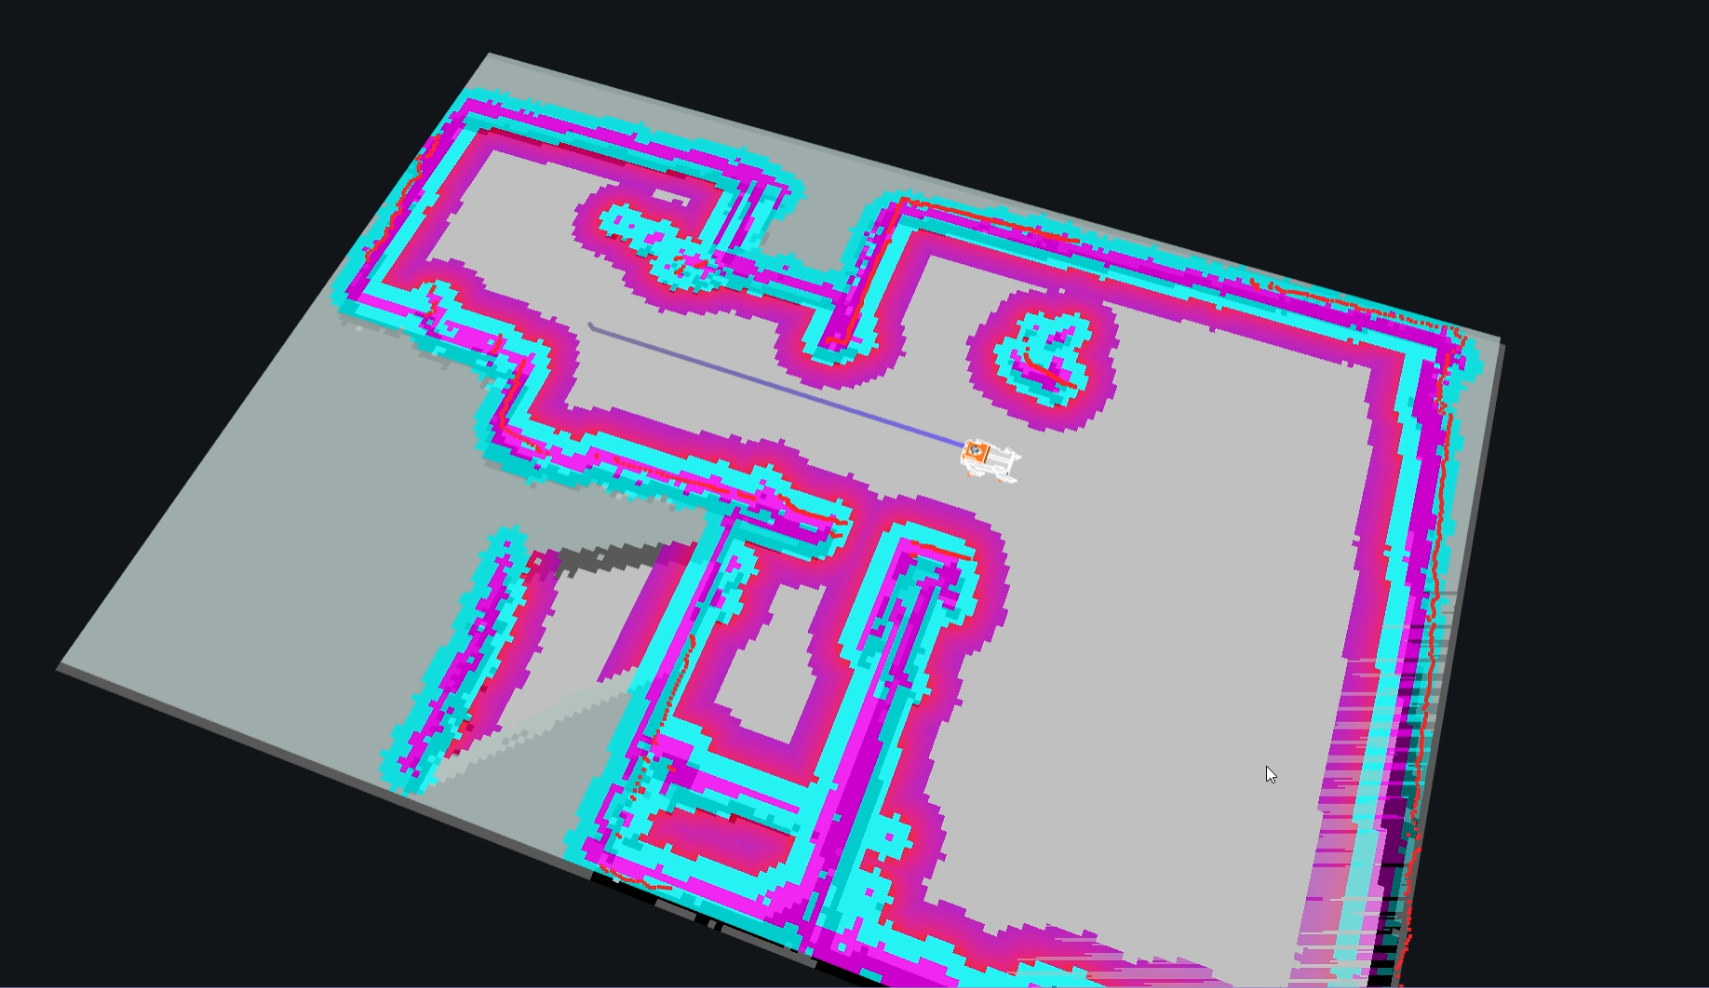
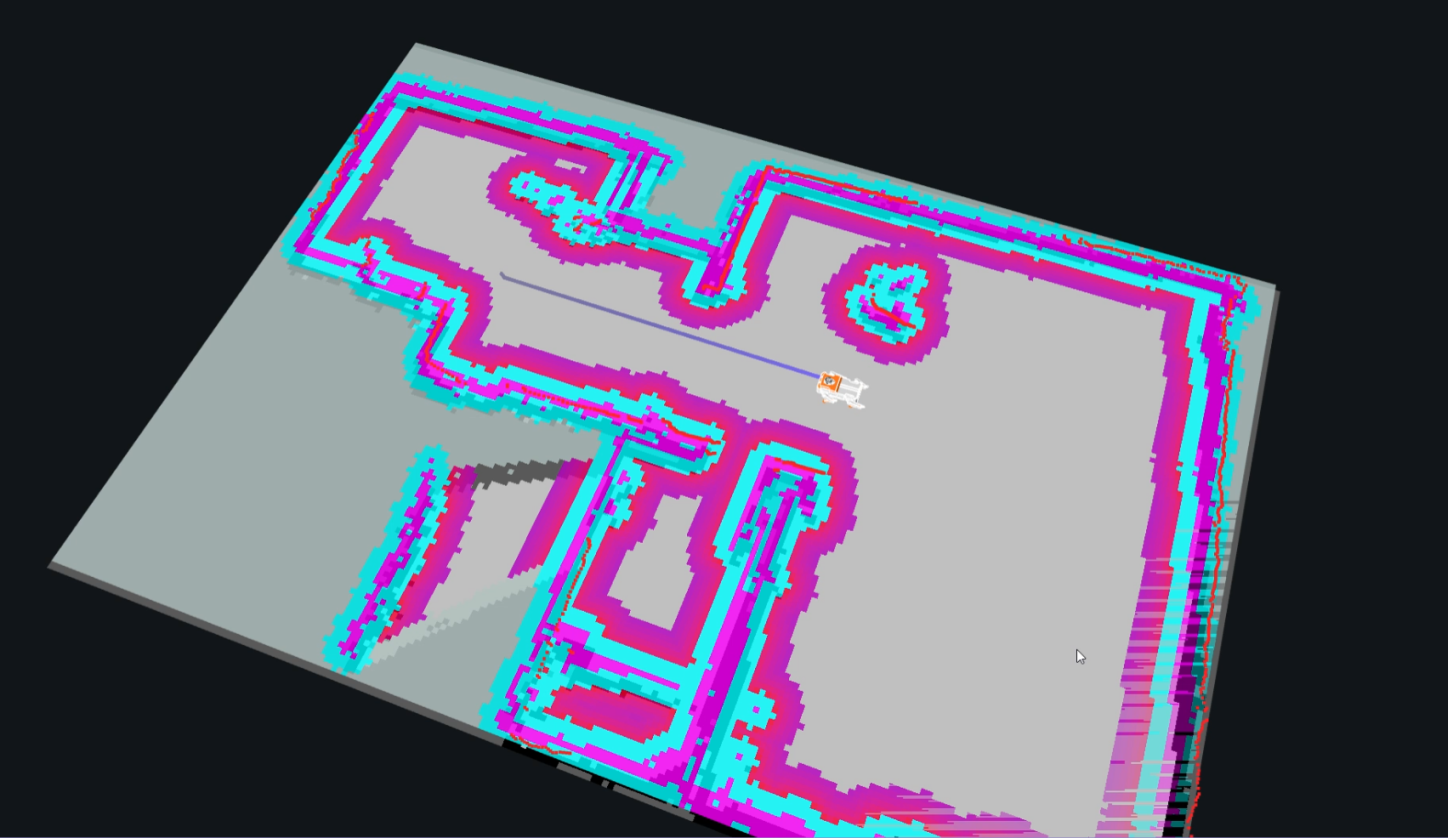
Update readme tables

diff --git a/README.md b/README.md
@@ -50,13 +50,9 @@ Check out the [Demo Video](https://youtu.be/wUXvWBjLTyA)!
 | LiDAR SLAM | Autonomous Navigation |
 | :---: | :---: |
 | ![SLAM](./photos/lidar_slam.png) | ![Autonomy](./photos/autonomy.png) |
-
 | Original Camera Feed | TensorRT Depth Map |
-| :---: | :---: |
 | ![Original Image](./photos/original_depth.png) | ![Depth Map](./photos/midas_depth.png) |
-
 | Hand Pose Detection | Reinforcement Learning in Isaac Lab |
-| :---: | :---: |
 | ![Hand Pose Recognition](./photos/handpose.png) | ![Reinforcement Learning](./photos/RL.png) |
 
 <p align="center">
@@ -92,9 +88,7 @@ Chassis iteratively modelled in SolidWorks. 3D printed with 2-part silicone inje
 | Main body parts | Leg Assembly & Silicone Feet |
 | :---: | :---: |
 | ![Body Parts](./photos/Body_Parts.png) | ![Leg Assembly](./photos/Leg_Assembly.jpg) |
-
-| Inside Orion (without shelves) | Inside Orion (with magnetic shelves) |
-| :---: | :---: |
+| Inside Orion (Jetson + PCBs + Display only) | Inside Orion (including Batteries + Lidar + Cameras) |
 | ![Orion_Inside](./photos/Orion_Inside.JPG) | ![Orion_Inside_with_Shelves](./photos/Orion_Inside_with_Shelves.JPG) |
 
 ---
